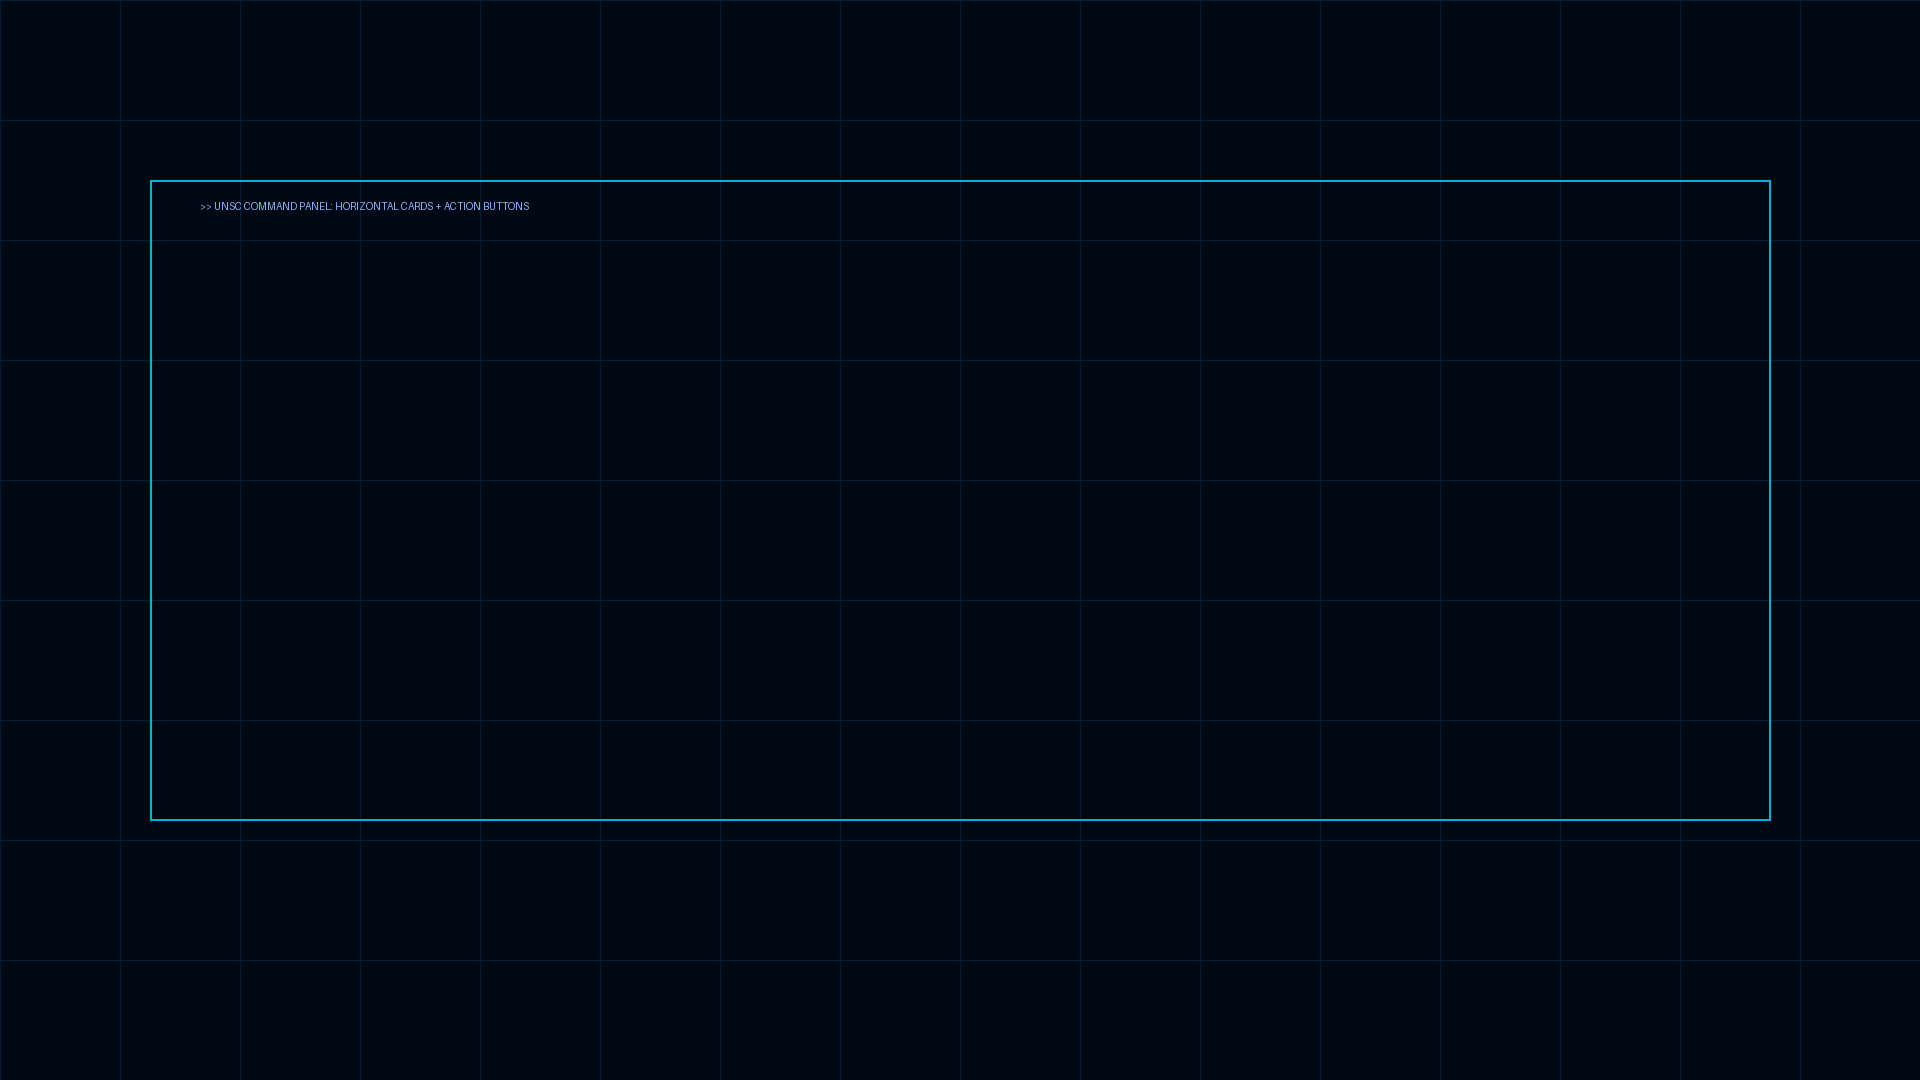
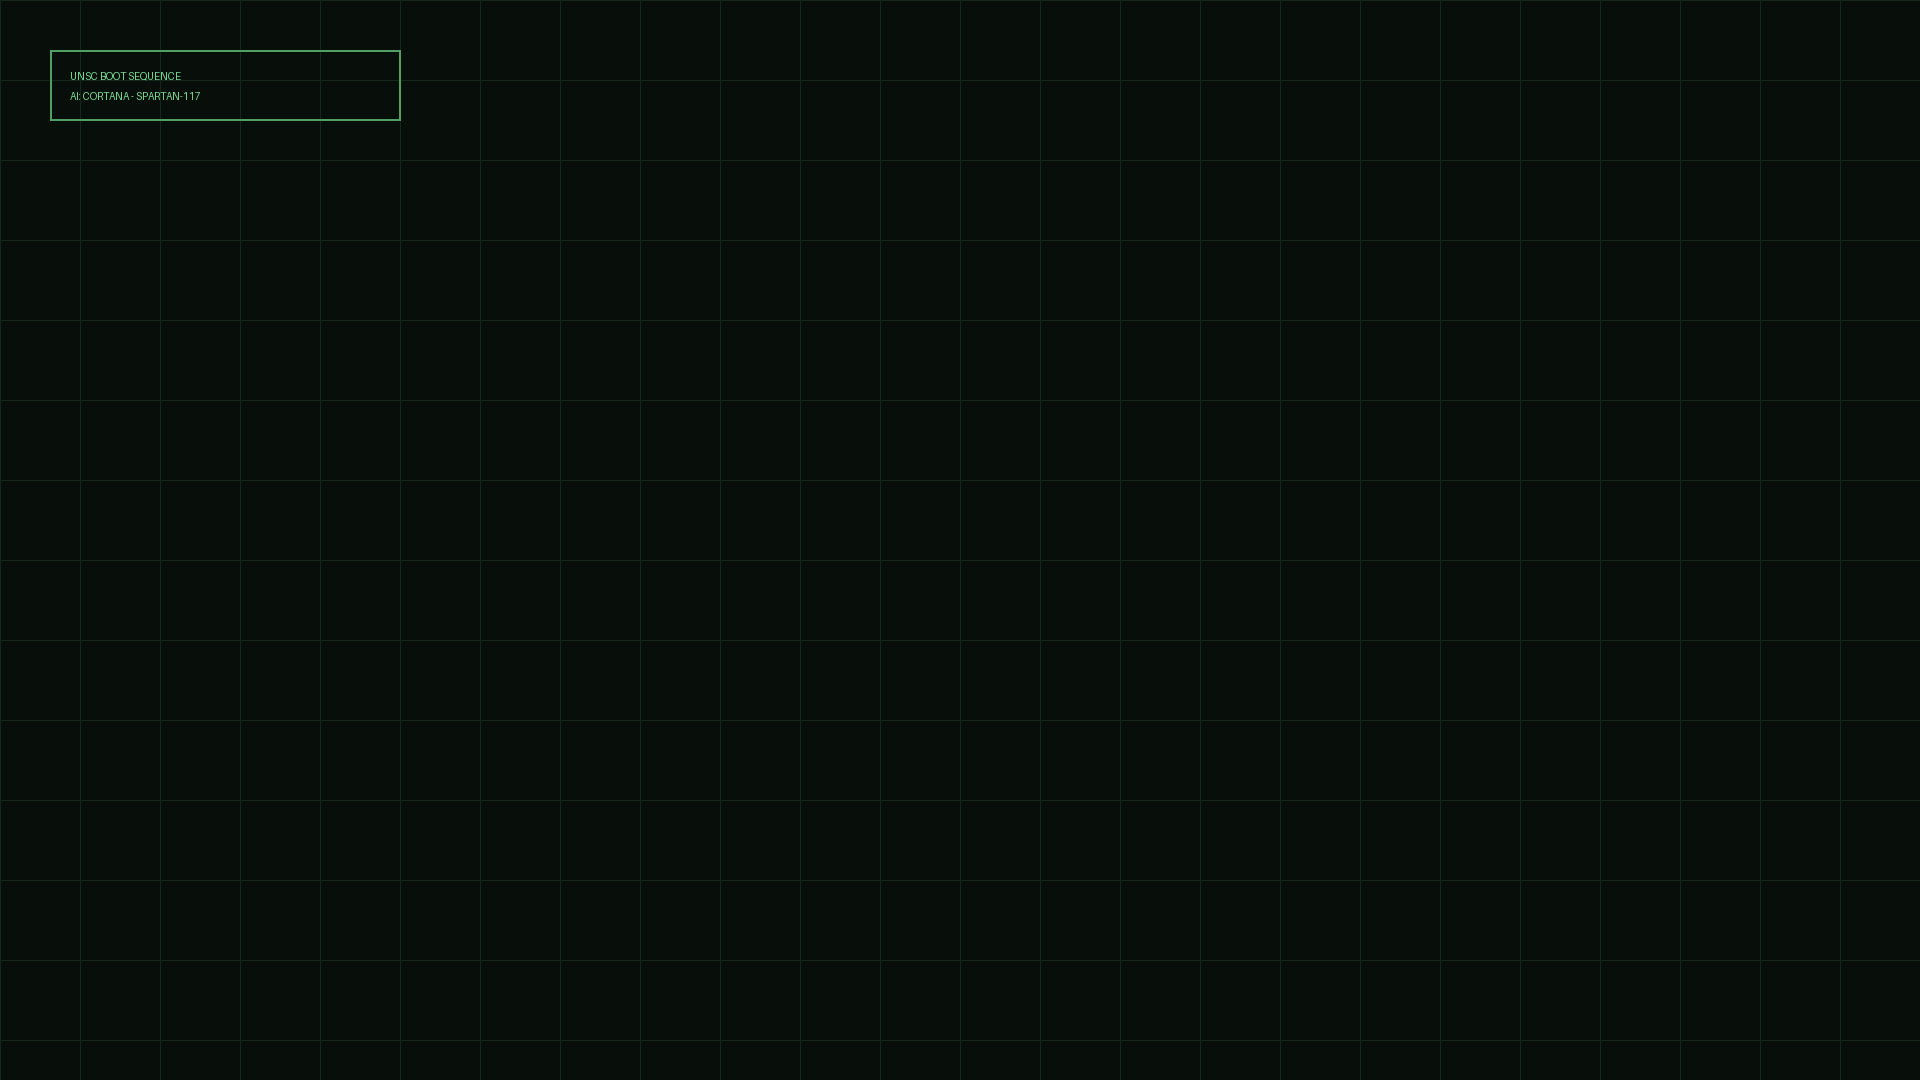
model baru halo mater chief hijau
Background baru style baru

diff --git a/README.md b/README.md
@@ -1,44 +1,36 @@
-# UNSC Cortana GRUB2 Theme (Horizontal Cards + Circular Action Buttons)
+# Halo GRUB2 Theme - UNSC HUD Edition
 
-Tema GRUB2 kustom bertema **UNSC** dan hologram **Cortana** (*Halo*), dioptimalkan untuk **Ubuntu 26.04** dengan **dua baris**: baris pertama berisi kartu pemilihan OS secara horizontal, dan baris kedua berisi **3 tombol berbentuk bulat kecil** untuk fungsi **Reboot (R)**, **Shutdown/Halt (S)**, dan **Boot to UEFI (U)**.
+Tema GRUB2 bernuansa sci-fi HUD yang terinspirasi dari antarmuka UNSC (Master Chief & Cortana) di Halo. Dibuat dan diuji secara khusus untuk **Ubuntu 26.04**.
 
-## Preview Tampilan
-![Preview Tema Tombol Bulat](./preview.png)
+## Preview
+![Preview Visual Tema Halo GRUB2](preview.png)
 
-## Fitur Utama
-- **Horizontal OS Cards:** Menu boot berbentuk kartu berdampingan.
-- **Circular Action Buttons:** 3 tombol bundar kompak di baris bawah untuk kontrol daya sistem (Reboot, Shutdown, UEFI).
-- **Ubuntu 26.04 Ready:** Desain antarmuka holografik futuristik yang kompatibel dengan resolusi tinggi.
+## Fitur
+* **Latar Belakang UNSC HUD:** Desain terminal hijau gelap bergaya Halo.
+* **OS Selection "Cards":** Tampilan simulasi kartu untuk OS Windows dan Linux (Ubuntu).
+* **Icon Tools Kustom:** Ikon utilitas bulat di baris simulasi kedua (Reboot, Shutdown, UEFI, Memtest, Recovery).
 
----
+## Cara Instalasi (Otomatis) di Ubuntu 26.04
 
-## Cara Pemasangan (Installation Guide)
+Kami telah menyediakan script `install.sh` untuk memudahkan proses pemasangan tema ini di Ubuntu Anda.
 
-1. **Salin Folder Tema**
-   Pindahkan folder tema ini ke direktori GRUB di sistem Linux Anda:
+1. Ekstrak file `.zip` ini ke sebuah folder.
+2. Buka terminal (`Ctrl+Alt+T`) dan navigasikan ke dalam folder hasil ekstraksi.
+3. Berikan izin eksekusi pada skrip installer dengan perintah:
    ```bash
-   sudo cp -r unsc_cortana_buttons /boot/grub/themes/
+   chmod +x install.sh
    ```
+4. Jalankan skrip instalasi dengan hak akses root:
+   ```bash
+   sudo ./install.sh
+   ```
+5. Tunggu proses instalasi dan pembaruan GRUB selesai. Setelah itu, *restart* PC Anda!
 
-2. **Generate File Font `.pf2`**
-   ```bash
-   sudo grub-mkfont -o /boot/grub/themes/unsc_cortana_buttons/UnscFont.pf2 /usr/share/fonts/truetype/dejavu/DejaVuSans-Bold.ttf --size=16
-   ```
+## Cara Instalasi (Manual)
+1. Pindahkan seluruh isi folder ini ke `/boot/grub/themes/halo_theme` (gunakan `sudo`).
+2. Buka file konfigurasi GRUB: `sudo nano /etc/default/grub`
+3. Tambahkan baris: `GRUB_THEME="/boot/grub/themes/halo_theme/theme.txt"`
+4. Perbarui GRUB: `sudo update-grub`
 
-3. **Konfigurasi File `/etc/default/grub`**
-   ```bash
-   sudo nano /etc/default/grub
-   ```
-   Tambahkan baris berikut:
-   ```bash
-   GRUB_GFXMODE=1920x1080,auto
-   GRUB_GFXPAYLOAD_LINUX=keep
-   GRUB_TIMEOUT_STYLE="menu"
-   GRUB_TIMEOUT="10"
-   GRUB_THEME="/boot/grub/themes/unsc_cortana_buttons/theme.txt"
-   ```
-
-4. **Perbarui GRUB**
-   ```bash
-   sudo update-grub
-   ```
+*Peringatan Layout:*
+GRUB2 secara default merender daftar menu dalam satu kolom vertikal. Desain kartu dan baris-kedua pada tema ini memanfaatkan manipulasi ruang dan bentuk ikon. Untuk pengalaman *grid* yang sesungguhnya, kami menyarankan penggunaan rEFInd Boot Manager.
